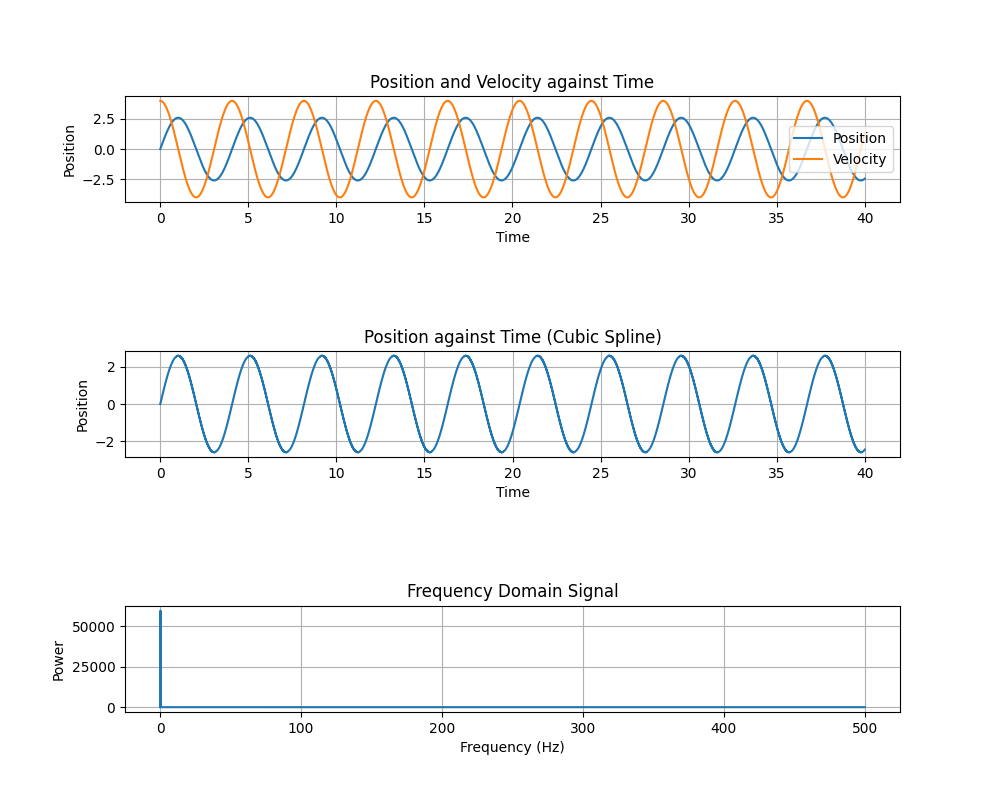
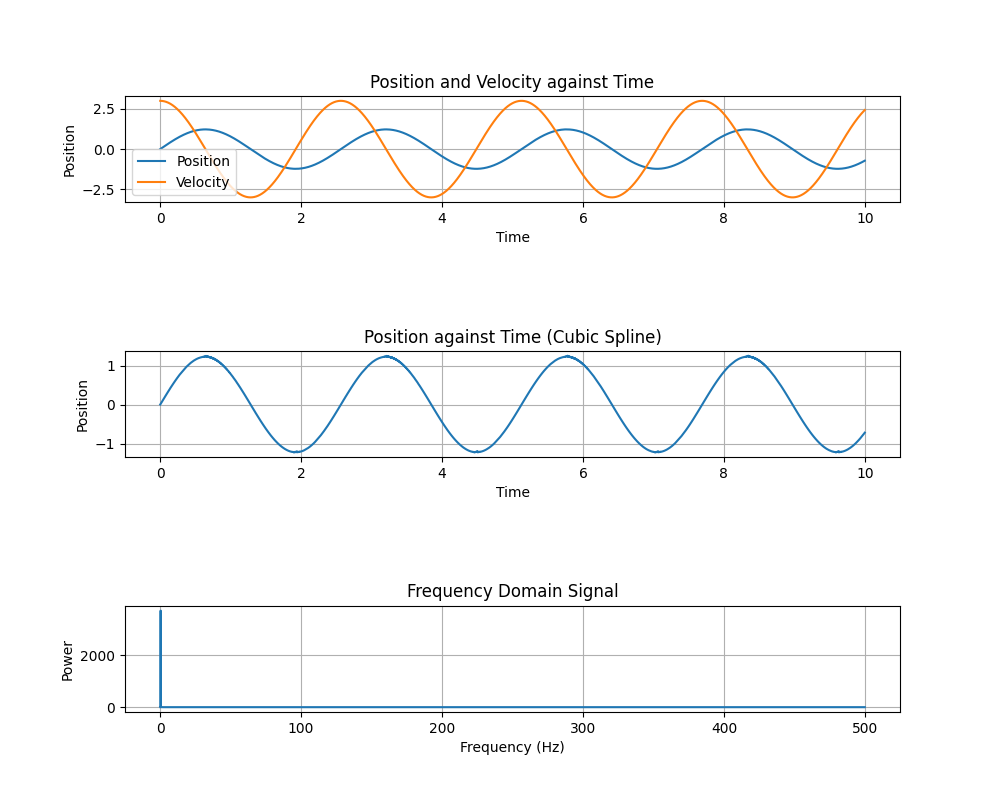
Commit

diff --git a/Moving Mirror RK45 with Cubic Spline.py b/Moving Mirror RK45 with Cubic Spline.py
@@ -67,7 +67,7 @@ def RK45(f, t0, tf, S0, h):
         s = 0.84 * (error_m / error) ** (1 / 4)  # Calculate scaling factor
         print("Out loop", n, "h:", h)  # Print debug information
 
-        while (error > error_m):  # Error control loop
+        while (error > error_m) or (error / error_m < 0.3):  # Error control loop
             h = s * h  # Adjust step size
             k1 = h * f(t, x)  # Recalculate k1
             k2 = h * f(t + (1 / 4) * h, x + (1 / 4) * k1)  # Recalculate k2
@@ -78,8 +78,8 @@ def RK45(f, t0, tf, S0, h):
             x_new = x + (25 / 216) * k1 + (1408 / 2565) * k3 + (2197 / 4101) * k4 - (1 / 5) * k5  # Update state vector
             z_new = x + (16 / 135) * k1 + (6656 / 12825) * k3 + (28561 / 56430) * k4 - (9 / 50) * k5 + (2 / 55) * k6  # Calculate z_new for error estimation
             error = abs(z_new[0] - x_new[0])  # Calculate error
-            s = 0.84 * (error_m / error) ** (1 / 4)  # Calculate scaling factor
-            print("In loop, h:", h)  # Print debug information
+            s = (error_m / error) ** (1 / 5)  # Calculate scaling factor
+            print("In loop", n, "h:", h)  # Print debug information
 
         x_values = np.concatenate((x_values, [x_new]), axis = 0)  # Append new state to the array
         t_values = np.append(t_values, t + h)  # Append new time to the array
@@ -123,7 +123,7 @@ def cubic_spline_coefficients(t_values, x_values):
         A[i, i] = 2 * (h[i - 1] + h[i])  # Main diagonal
         A[i, i + 1] = h[i]  # Upper diagonal
         rhs[i] = 3 * (b[i] - b[i - 1])  # Right-hand side
-        print("Cubic splining", i)  # Print debug information
+        # print("Cubic splining", i)  # Print debug information
     
     # Solve the system for c
     c = np.linalg.solve(A, rhs)  # Solve the tridiagonal system
@@ -175,10 +175,10 @@ omega = (k / m) ** 0.5  # Natural frequency
 x0 = float(input("Initial position:"))  # Initial position
 v0 = float(input("Initial velocity:"))  # Initial velocity
 t0 = 0.0  # Start time
-tf = 40.0  # End time
+tf = 10.0  # End time
 h = 0.1  # Initial step size
 S0 = np.array([x0, v0])  # Initial state vector
-error_m = 1e-5  # Tolerance for error
+error_m = 1e-6  # Tolerance for error
 F0 = 0  # Driving force amplitude
 omega_f = np.sqrt(6)  # Driving frequency
 

diff --git a/Cholesky Decomposition.py b/Cholesky Decomposition.py
@@ -1,0 +1,37 @@
+import numpy as np
+import matplotlib.pyplot as plt 
+
+m = 0.1 * 10 ** (-6)
+b = 0.2 * 10 ** (-6)
+t0 = 0.0 
+tf = 10.0
+h = 0.01
+desired_std = np.sqrt(np.sqrt(2 * m * b ** 2))
+
+time_matrix = h * np.abs(np.arange((tf - t0) / h)[:, None] - np.arange((tf - t0) / h)[None, :])
+
+covariance_matrix = np.zeros_like(time_matrix)
+
+for i in range(len(time_matrix)):
+    for j in range(len(time_matrix)):
+        covariance_matrix[i][j] = (2 * m) ** 0.5 * b * np.exp(- m * time_matrix[i][j] * 0.5)
+        if (i == j):
+            covariance_matrix[i][j] = 1
+
+L = np.linalg.cholesky(covariance_matrix)
+
+noise = np.dot(L, np.random.normal(loc = 0, scale = np.sqrt(np.sqrt(2 * m * b ** 2)), size = int((tf - t0) / h)))
+t_values = np.linspace(t0, tf, int((tf - t0) / h))
+
+plt.plot(t_values, noise)
+plt.xlabel('Time')
+plt.ylabel('Noise')
+plt.title('Noise against Time')
+plt.grid(True)
+plt.savefig('noise.png') 
+
+mean = np.mean(noise)
+variance = np.var(noise)
+print("Noise:", noise)
+print("Mean:", mean)
+print("Variance:", variance)
